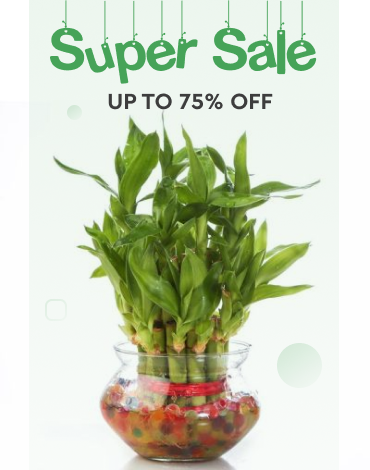
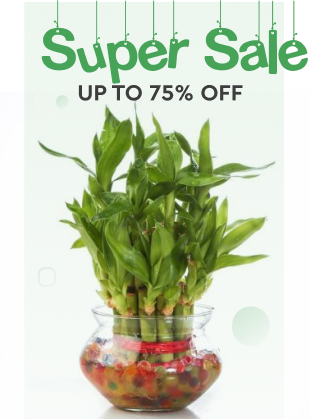
add homework9

Changed region(s): [[0.1161, 0.0, 1.0, 1.0], [0.4645, 0.6516, 0.4935, 0.6826], [0.4355, 0.8377, 0.4645, 0.8687]]

diff --git a/CSS/styles.css b/CSS/styles.css
@@ -319,7 +319,7 @@ header .login::before{
     justify-content: space-between;
     flex-wrap: wrap;
     max-width: 1200px;
-    margin: 26px auto auto;
+    margin: 26px auto;
     align-items: flex-start;
 
 }
@@ -331,14 +331,16 @@ header .login::before{
     padding-left: 20px;
     font-weight: 400;
     color: #3d3d3d;
+    width: 25%;
 }
 .left_sidebar .category_list {
     list-style-type: none;
-    padding: 0;
     margin-bottom: 377px;
-    width: 103px;
 }
-
+.left_sidebar .article img{
+    width: 310px;
+    height: 470px;
+}
 .left_sidebar .category_list li {
     padding: 8px;
     cursor: pointer;
@@ -346,10 +348,6 @@ header .login::before{
 
 .left_sidebar .category_list li:hover {
     color: green;
-}
-.left_sidebar .article .img{
-    width: 370px;
-    height: 470px;
 }
 .categories .right_content{
     max-width: 840px;

diff --git a/index.html b/index.html
@@ -62,7 +62,9 @@
                 <li>Gardening</li>
                 <li>Accessories</li>
             </ul>
-                <img src="images/Super_Sale_Banner.png" alt="Super Sale">
+            </article>
+            <article>
+            <img src="images/Super_Sale_Banner.png" alt="Sale_Banner">
             </article>
         </div>
         <div class="right_content">
